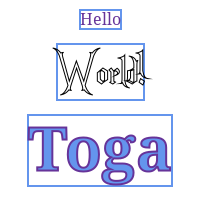
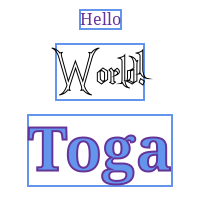
GTK: refresh font map after loading a font

Changed region(s): [[0.24, 0.21, 0.51, 0.51]]

diff --git a/gtk/src/toga_gtk/fonts.py b/gtk/src/toga_gtk/fonts.py
@@ -1,4 +1,5 @@
 from pathlib import Path
+from warnings import warn
 
 from toga.fonts import (
     _REGISTERED_FONT_CACHE,
@@ -11,7 +12,7 @@ from toga.fonts import (
     SYSTEM_DEFAULT_FONTS,
 )
 
-from .libs import FontConfig, Pango, PangoCairo
+from .libs import FontConfig, Pango, PangoCairo, PangoFc
 
 _FONT_CACHE = {}
 
@@ -21,14 +22,14 @@ class Font:
         self.interface = interface
 
         # Can't meaningfully get test coverage for pango not being installed
-        error = (
-            "Unable to import {}. Have you installed the Pango and "
-            "gobject-introspection system libraries?"
+        import_error = (
+            "Unable to import {}. Have you installed the corresponding "
+            "system packages and GIRepository introspection typelib files?"
         )
         if Pango is None:  # pragma: no cover
-            raise RuntimeError(error.format("Pango"))
+            raise RuntimeError(import_error.format("Pango"))
         if PangoCairo is None:  # pragma: no cover
-            raise RuntimeError(error.format("PangoCairo"))
+            raise RuntimeError(import_error.format("PangoCairo"))
 
         try:
             font = _FONT_CACHE[self.interface]
@@ -51,6 +52,20 @@ class Font:
             else:
                 if Path(font_path).is_file():
                     FontConfig.add_font_file(font_path)
+
+                    # PangoFc provides the base class of the default font map, so if its
+                    # typelib file is missing, the cache_clear method will not be
+                    # visible.
+                    if PangoFc is None:  # pragma: no cover
+                        # Debian Buster doesn't include the typelib file in any package,
+                        # but it works even without a cache_clear, so continue with a
+                        # warning.
+                        warn(import_error.format("PangoFc"))
+                    else:
+                        # Ubuntu 22.04 includes the typelib file in gir1.2-pango-1.0,
+                        # and it does require a cache_clear to make new fonts visible
+                        # to the Canvas.
+                        PangoCairo.FontMap.get_default().cache_clear()
                 else:
                     raise ValueError(f"Font file {font_path} could not be found")
 

diff --git a/gtk/src/toga_gtk/libs/gtk.py b/gtk/src/toga_gtk/libs/gtk.py
@@ -37,3 +37,9 @@ try:
     from gi.repository import PangoCairo  # noqa: F401
 except (ImportError, ValueError):  # pragma: no cover
     PangoCairo = None
+
+try:
+    gi.require_version("PangoFc", "1.0")
+    from gi.repository import PangoFc  # noqa: F401
+except (ImportError, ValueError):  # pragma: no cover
+    PangoFc = None
